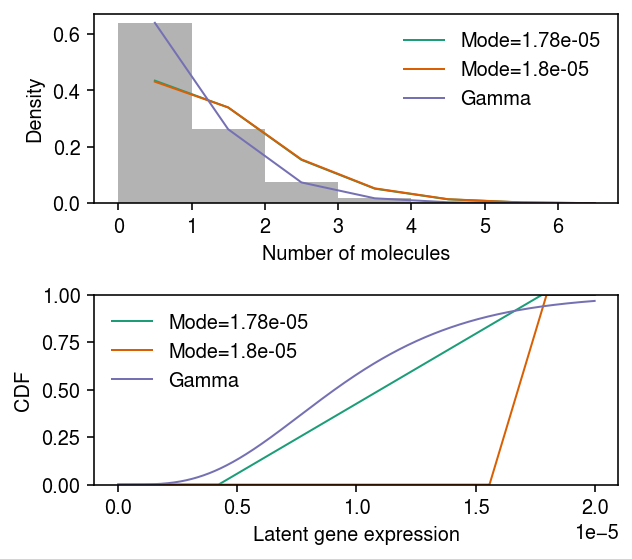
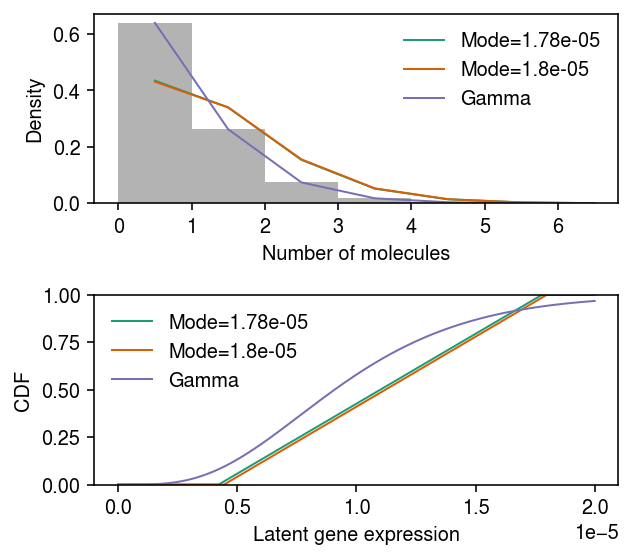
Fix unimodal example

diff --git a/docs/halfuniform.html b/docs/halfuniform.html
@@ -1,7 +1,7 @@
 <!DOCTYPE html>
 <html lang="en">
 <head>
-<!-- 2020-08-16 Sun 12:02 -->
+<!-- 2020-08-16 Sun 16:10 -->
 <meta charset="utf-8">
 <meta name="viewport" content="width=device-width, initial-scale=1">
 <title>Uniform vs half-uniform mixture prior</title>
@@ -252,8 +252,9 @@ for the JavaScript code in this tag.
 <div class="outline-text-2" id="text-org532e87b">
 <p>
 We found cases where a unimodal expression model (half-uniform mixture) had a
-worse log likelihood than a Gamma expression model. Investigate what
-happened.
+worse log likelihood than a Gamma expression model. This happened due to a
+bug in a previous version of <code>ashr</code>. Verify that it was fixed in version
+<code>2.2-51</code>.
 </p>
 </div>
 </div>
@@ -336,7 +337,7 @@ Fit candidate expression models, and report the log likelihood.
 
 <pre class="example">
 Gamma                    -4916.603271
-Unimodal (halfuniform)   -5312.792661
+Unimodal (halfuniform)   -4911.743860
 Unimodal (uniform)       -4911.814471
 dtype: float64
 </pre>
@@ -352,9 +353,9 @@ g0[:,g0[0] &gt; 1e-8]
 </div>
 
 <pre class="example">
-array([[9.26338375e-01, 2.95804802e-02, 4.40811445e-02],
-[9.24285586e-06, 0.00000000e+00, 0.00000000e+00],
-[9.24285586e-06, 2.99375869e-05, 3.85096252e-05]])
+array([[9.26309463e-01, 2.96562998e-02, 4.40342371e-02],
+[9.24285849e-06, 0.00000000e+00, 0.00000000e+00],
+[9.24285849e-06, 2.99375891e-05, 3.85096272e-05]])
 </pre>
 
 <div class="org-src-container">
@@ -364,7 +365,7 @@ g1[:,0]
 </div>
 
 <pre class="example">
-array([0.00000000e+00, 1.95308449e-05, 1.95308449e-05])
+array([0.00000000e+00, 9.08008205e-06, 9.08008205e-06])
 
 </pre>
 
@@ -374,9 +375,9 @@ array([0.00000000e+00, 1.95308449e-05, 1.95308449e-05])
 </div>
 
 <pre class="example">
-array([[1.00000000e+00],
-[1.28571551e-05],
-[1.95308449e-05]])
+array([[4.53314869e-01, 4.74849764e-01, 5.27755773e-02, 1.90597899e-02],
+[8.16422384e-06, 9.08008205e-06, 9.08008205e-06, 9.08008205e-06],
+[9.08008205e-06, 9.72769161e-06, 2.98035879e-05, 3.83875450e-05]])
 </pre>
 
 <p>
@@ -418,8 +419,18 @@ likelihoods.
 <div class="org-src-container">
 <pre class="src src-ipython"><span class="org-variable-name">fit0</span> = scmodes.ebpm.ebpm_unimodal(x, s, mixcompdist=<span class="org-string">'halfuniform'</span>, mode=grid[88])
 <span class="org-variable-name">fit1</span> = scmodes.ebpm.ebpm_unimodal(x, s, mixcompdist=<span class="org-string">'halfuniform'</span>, mode=grid[89])
+pd.Series({
+  f<span class="org-string">'{grid[88]:.3g}'</span>: fit0.rx2(<span class="org-string">'loglik'</span>)[0],
+  f<span class="org-string">'{grid[89]:.3g}'</span>: fit1.rx2(<span class="org-string">'loglik'</span>)[0]
+})
 </pre>
 </div>
+
+<pre class="example">
+1.78e-05   -4930.230021
+1.8e-05    -4936.446796
+dtype: float64
+</pre>
 
 <div class="org-src-container">
 <pre class="src src-ipython"><span class="org-variable-name">pmf</span> = <span class="org-builtin">dict</span>()
@@ -490,7 +501,7 @@ fig.tight_layout()
 </div>
 <div id="postamble" class="status">
 <p class="author">Author: Abhishek Sarkar</p>
-<p class="date">Created: 2020-08-16 Sun 12:02</p>
+<p class="date">Created: 2020-08-16 Sun 16:10</p>
 <p class="validation"><a href="http://validator.w3.org/check?uri=referer">Validate</a></p>
 </div>
 </body>
